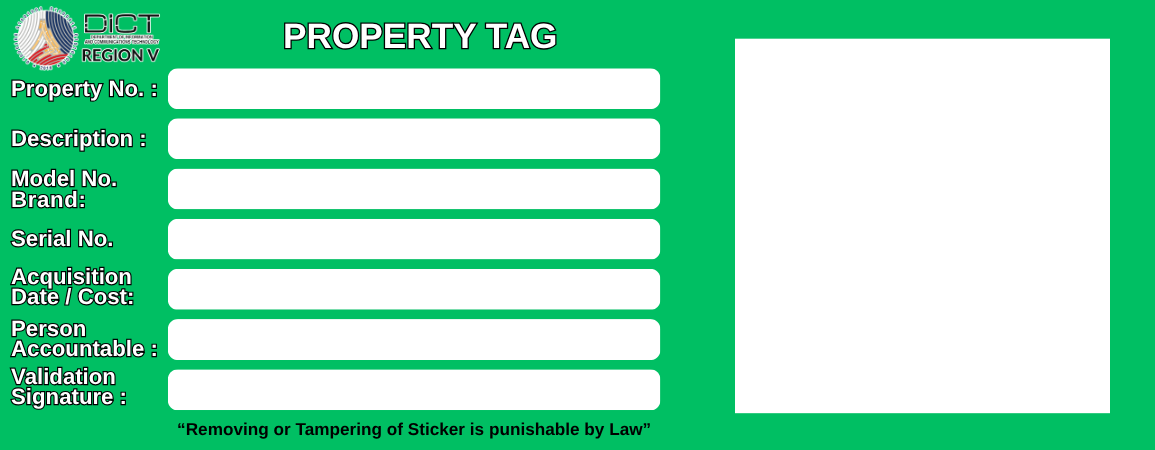
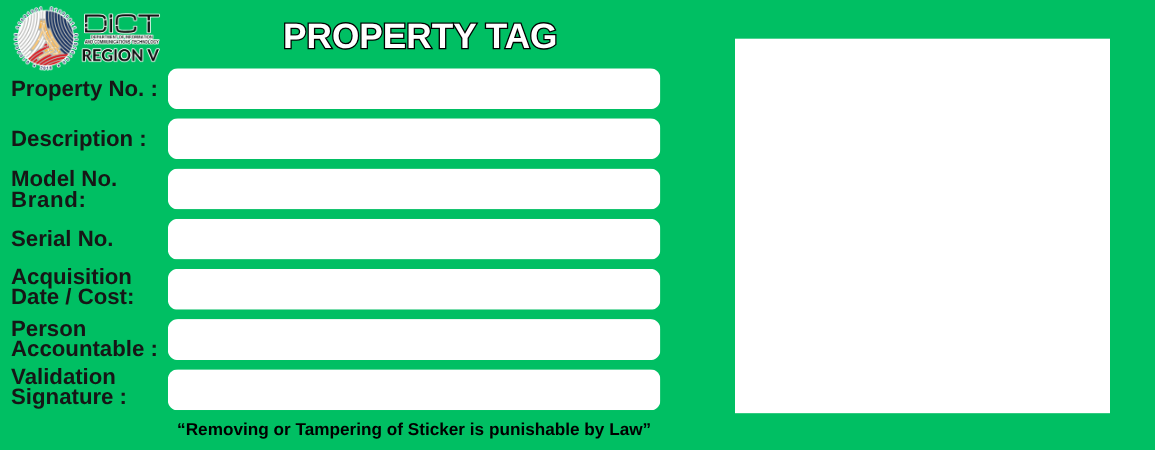
couple new additions
added new function to print tags in a4 page, 3 columns 1 inch height
increased font a bit more, shifted down letters

diff --git a/generate_a4_searchable_pdf.py b/generate_a4_searchable_pdf.py
@@ -1,0 +1,160 @@
+import os
+import math
+
+import pandas as pd
+import qrcode
+from reportlab.lib.pagesizes import A4
+from reportlab.pdfgen import canvas
+
+from generate_pc import format_acq_date_cost, parse_property_entry
+
+
+INPUT_CSV = "properties.csv"
+TEMPLATE_IMAGE = "DICT R5 Property Tag.png"
+OUTPUT_PDF = "output_pdf/Property_Tags_A4_Searchable.pdf"
+ACCOUNTABLE_PERSON = "N. TABO"
+
+# Original template dimensions from generate_pc.py.
+TEMPLATE_WIDTH = 1155
+TEMPLATE_HEIGHT = 450
+
+# Change only this value to change the number of columns.
+PAGE_WIDTH, PAGE_HEIGHT = A4
+PAGE_MARGIN = 10
+# White space between cards for cutting; increase these values for wider borders.
+COLUMN_GAP = 2
+ROW_GAP = 2
+COLUMNS = 3
+CARD_HEIGHT_INCHES = 1.0
+
+FONT_NAME = "Helvetica-Bold"
+BASE_FONT_SIZE = 27
+MIN_FONT_SIZE = 8
+MAX_TEXT_WIDTH = 470
+
+
+def draw_fitted_text(pdf, text, x, y, max_width, font_size, min_size=MIN_FONT_SIZE):
+    """Draw one searchable text field, shrinking it when necessary."""
+    if not text:
+        return
+
+    size = font_size
+    while size > min_size and pdf.stringWidth(text, FONT_NAME, size) > max_width:
+        size -= 1
+
+    pdf.setFont(FONT_NAME, size)
+    pdf.drawString(x, y, text)
+
+
+def load_cards():
+    """Read and normalize the same property data used by generate_pc.py."""
+    cards = []
+    data = pd.read_csv(INPUT_CSV)
+    qr_directory = os.path.join("output_property_tags", "_temp_qr")
+    os.makedirs(qr_directory, exist_ok=True)
+
+    for row_index, (_, row) in enumerate(data.iterrows()):
+        raw_property_number = row.get("property_number", "")
+        property_number = "" if pd.isna(raw_property_number) else str(raw_property_number).strip()
+        if property_number.lower() in ["nan", "none", "n/a"]:
+            property_number = ""
+
+        raw_description = str(row.get("description", "")).strip()
+        if not property_number and not raw_description:
+            continue
+
+        description, model_brand, serial_number = parse_property_entry(raw_description)
+        acquisition = format_acq_date_cost(row.get("date"), row.get("cost"))
+
+        qr_path = None
+        if property_number:
+            qr_path = os.path.join(qr_directory, f"qr_{row_index}.png")
+            if not os.path.exists(qr_path):
+                qr = qrcode.QRCode(box_size=10, border=2)
+                qr.add_data(property_number)
+                qr.make(fit=True)
+                qr.make_image(fill_color="black", back_color="white").save(qr_path)
+
+        cards.append({
+            "prop_no": property_number,
+            "desc": description,
+            "model_brand": model_brand,
+            "sn": serial_number,
+            "acq": acquisition,
+            "accountable": ACCOUNTABLE_PERSON,
+            "qr_path": qr_path,
+        })
+
+    return cards
+
+
+def draw_card(pdf, card, x, y, width, height):
+    """Draw a scaled card image and its searchable text layer."""
+    scale_x = width / TEMPLATE_WIDTH
+    scale_y = height / TEMPLATE_HEIGHT
+
+    pdf.drawImage(TEMPLATE_IMAGE, x, y, width=width, height=height)
+
+    if card["qr_path"]:
+        pdf.drawImage(
+            card["qr_path"],
+            x + 735 * scale_x,
+            y + 37 * scale_y,
+            width=375 * scale_x,
+            height=374 * scale_y,
+        )
+
+    pdf.setFillColorRGB(0, 0, 0)
+    fields = [
+        (card["prop_no"], 185, 353),
+        (card["desc"], 185, 303),
+        (card["model_brand"], 185, 253),
+        (card["sn"], 185, 203),
+        (card["acq"], 185, 153),
+        (card["accountable"], 185, 102),
+    ]
+
+    for text, original_x, original_y in fields:
+        draw_fitted_text(
+            pdf,
+            text,
+            x + original_x * scale_x,
+            y + original_y * scale_y,
+            MAX_TEXT_WIDTH * scale_x,
+            BASE_FONT_SIZE * scale_y,
+        )
+
+
+def create_a4_pdf(cards):
+    os.makedirs(os.path.dirname(OUTPUT_PDF), exist_ok=True)
+    pdf = canvas.Canvas(OUTPUT_PDF, pagesize=A4)
+
+    card_width = (PAGE_WIDTH - (2 * PAGE_MARGIN) - (COLUMNS - 1) * COLUMN_GAP) / COLUMNS
+    card_height = CARD_HEIGHT_INCHES * 72
+    rows = math.floor(
+        (PAGE_HEIGHT - (2 * PAGE_MARGIN) + ROW_GAP) / (card_height + ROW_GAP)
+    )
+    cards_per_page = COLUMNS * rows
+
+    for card_index, card in enumerate(cards):
+        page_index = card_index % cards_per_page
+        row = page_index // COLUMNS
+        column = page_index % COLUMNS
+
+        x = PAGE_MARGIN + column * (card_width + COLUMN_GAP)
+        y = PAGE_HEIGHT - PAGE_MARGIN - card_height - row * (card_height + ROW_GAP)
+        draw_card(pdf, card, x, y, card_width, card_height)
+
+        if page_index == cards_per_page - 1 or card_index == len(cards) - 1:
+            pdf.showPage()
+
+    pdf.save()
+    page_count = (len(cards) + cards_per_page - 1) // cards_per_page
+    print(
+        f"[+] Created: '{OUTPUT_PDF}' ({len(cards)} cards, "
+        f"{COLUMNS} columns x {rows} rows, {page_count} A4 page(s))"
+    )
+
+
+if __name__ == "__main__":
+    create_a4_pdf(load_cards())

diff --git a/generate_pc.py b/generate_pc.py
@@ -332,7 +332,7 @@ def draw_text_fitted(draw, text, x, y, max_width, base_font_path, base_size=30):
 def draw_fitted_pdf_text(c, text, x, y, max_width=470, font_name="Helvetica-Bold", base_size=25, min_size=12):
     """
     Renders text directly in the PDF canvas with dynamic auto-shrinking so text
-    fills the white pill nicely (size 25) without overflowing long entries.
+    fills the white pill nicely (size 27) without overflowing long entries.
     """
     if not text:
         return
@@ -393,14 +393,14 @@ def create_searchable_pdf(cards_data, template_image, base_output_pdf="All_Prope
 
             c.setFillColorRGB(0, 0, 0)
 
-            # Y coordinates vertically re-aligned for size 25 font
+            # Y coordinates shifted slightly downward for size 27 font
             coords = [
-                (card["prop_no"], 356),
-                (card["desc"], 306),
-                (card["model_brand"], 256),
-                (card["sn"], 206),
-                (card["acq"], 156),
-                (card["accountable"], 105),
+                (card["prop_no"], 353),
+                (card["desc"], 303),
+                (card["model_brand"], 253),
+                (card["sn"], 203),
+                (card["acq"], 153),
+                (card["accountable"], 102),
             ]
 
             for text, y_pdf in coords:
@@ -411,7 +411,7 @@ def create_searchable_pdf(cards_data, template_image, base_output_pdf="All_Prope
                     y=y_pdf,
                     max_width=470,
                     font_name="Helvetica-Bold",
-                    base_size=25,
+                    base_size=27,
                     min_size=12
                 )
 
@@ -509,7 +509,7 @@ def create_property_tags(
             "qr_path": qr_file_path
         })
 
-        # print(f"Generated: {out_png} -> [Desc: {desc or '(blank)'} | Model: {model_brand or '(blank)'} | SN: {sn or '(blank)'}]")
+        print(f"Generated: {out_png} -> [Desc: {desc or '(blank)'} | Model: {model_brand or '(blank)'} | SN: {sn or '(blank)'}]")
 
     create_searchable_pdf(
         cards_for_pdf, 
